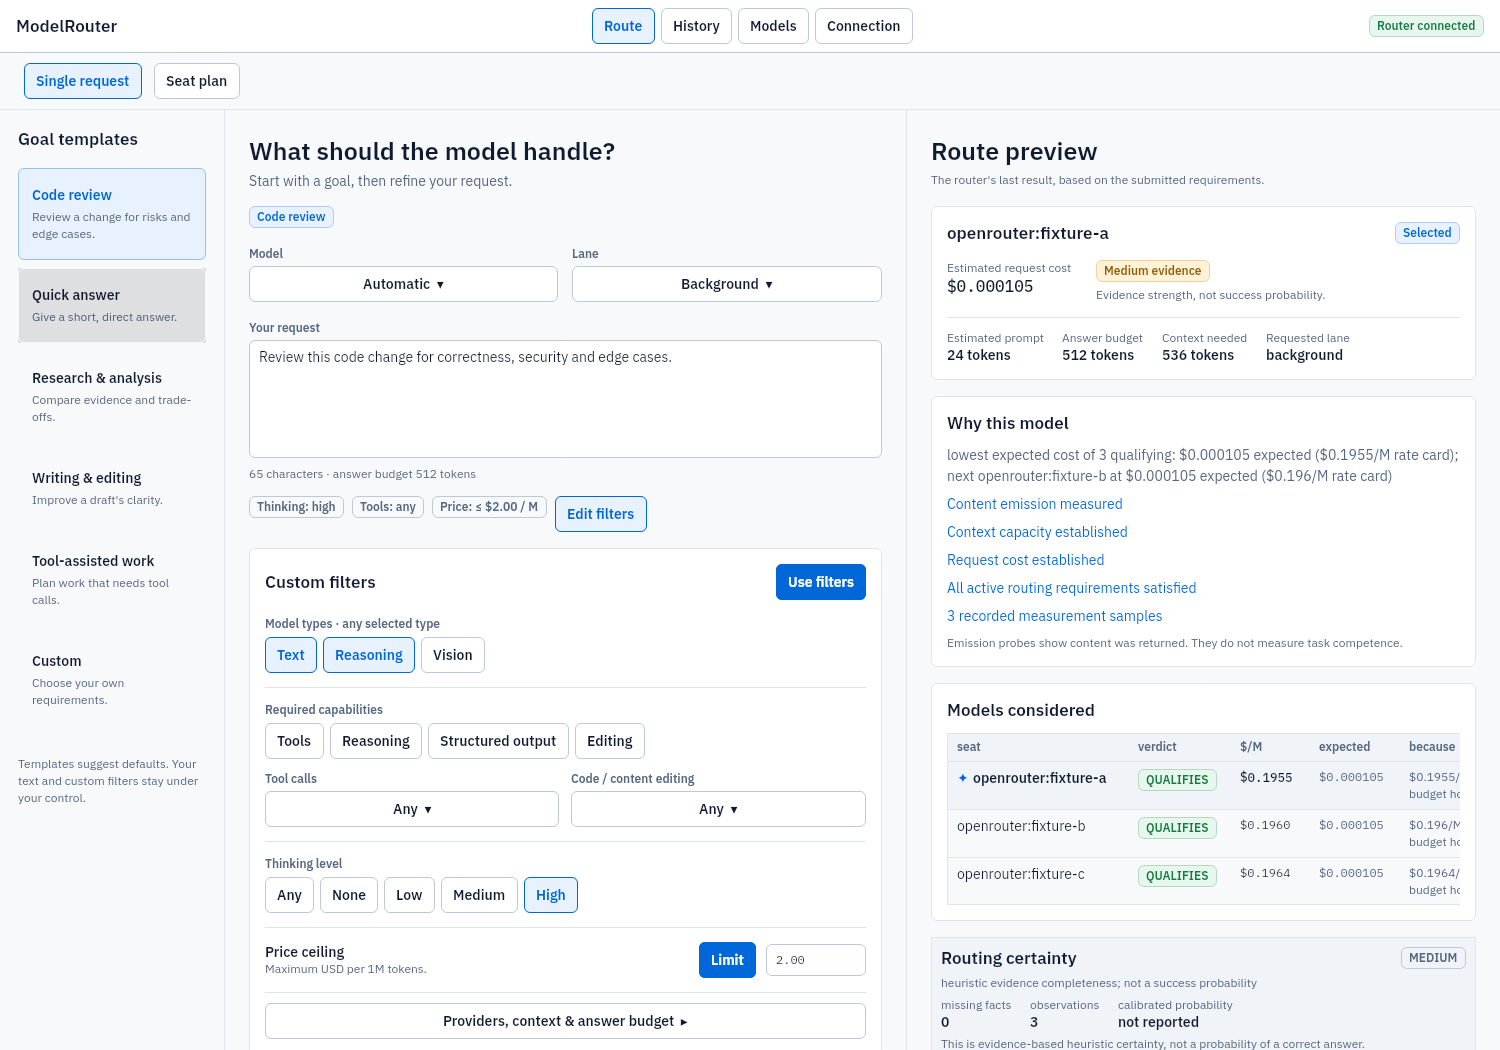
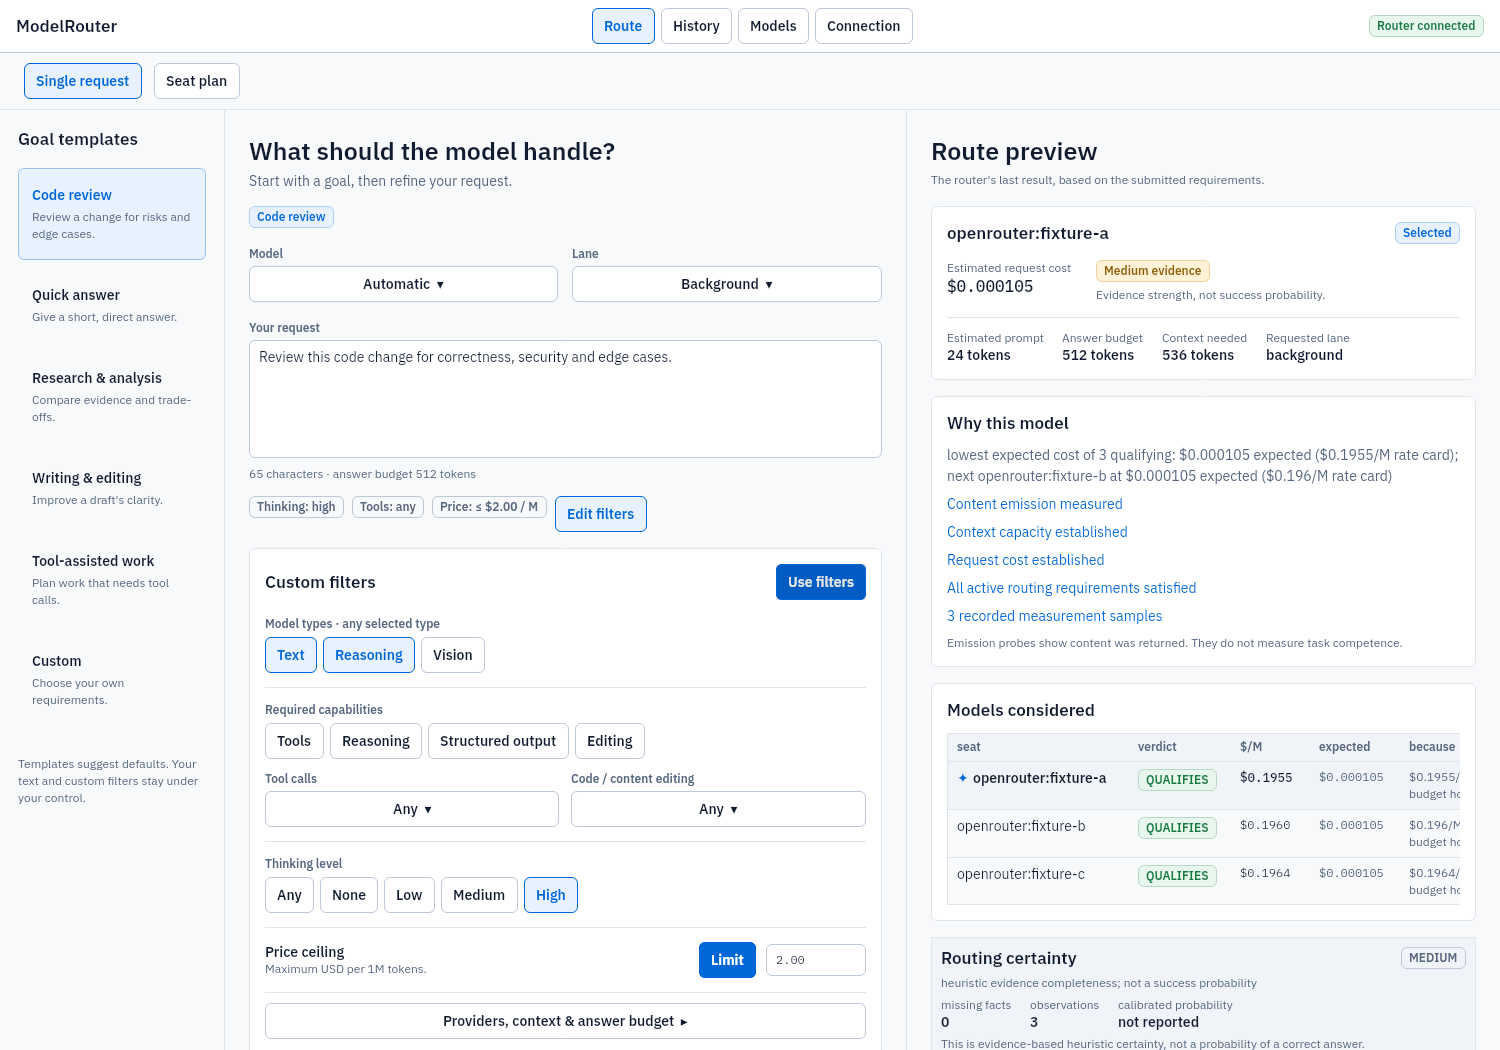
Verify per-user MSI registration through Windows Installer

Changed region(s): [[0.0, 0.2438, 0.1533, 0.3352], [0.5213, 0.5486, 0.552, 0.579]]

diff --git a/docs/NATIVE_UI_QA.md b/docs/NATIVE_UI_QA.md
@@ -1,0 +1,32 @@
+# Native design and behavior QA — 2026-10-12
+
+Final result: passed (native desktop scope).
+
+Compared the approved `windows-revised-composer.png` and
+`windows-seat-plan-preview.png` with real Compose desktop captures at 1500×1050:
+[`single request`](../app/screenshots/09_windows_single_request.png) and
+[`seat plan`](../app/screenshots/10_windows_seat_plan.png).
+
+The light layout preserves top navigation, goal/template rail, editable middle pane,
+and colored server evidence. All six single-request goals remain visible. Seat roles,
+fixed/app bindings, exact membership chips, shared/per-seat filters, reference identities
+and PR revisions are editable. Blue/green/amber/neutral statuses carry text labels;
+reused weight identity keeps the same color and app-fixed evidence stays neutral.
+
+Real local FastAPI/router fixtures, with no provider calls, resolved the overlapping
+review pair and triple as B/C/A/B. The two reviewers differ from the registered
+head-bound author A. Clicking “All seats” added the exact four-slot group and the
+server returned UNSATISFIABLE rather than waiving diversity. Stale draft previews
+are labeled. Missing author provenance produced UNKNOWN, with the missing fact shown.
+A native text edit followed by selecting Quick answer preserved the edited request
+and labeled the previous preview as a changed draft (screenshot 11).
+
+Offline verification: 33 desktop tests pass; desktop runnable JAR and Android debug
+APK build. Tests cover strict wire keys, role/count validation, exact costs and unknowns,
+generic versus PR references, separate token estimates, custom edit preservation,
+overlapping groups, explicit bindings, and absence of prompt/task bodies in plans.
+
+Minor visual differences: the native app uses bundled IBM Plex fonts; additional
+controls and provenance details scroll in their own panes. Dense considered-model
+tables retain horizontal scrolling. Windows MSI install/launch and Android device
+runtime verification are outside this Linux native render check.
